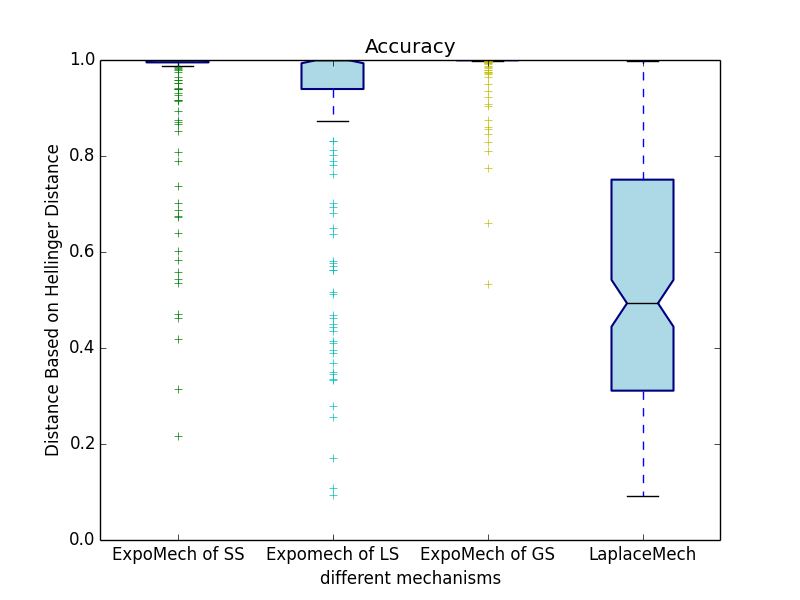
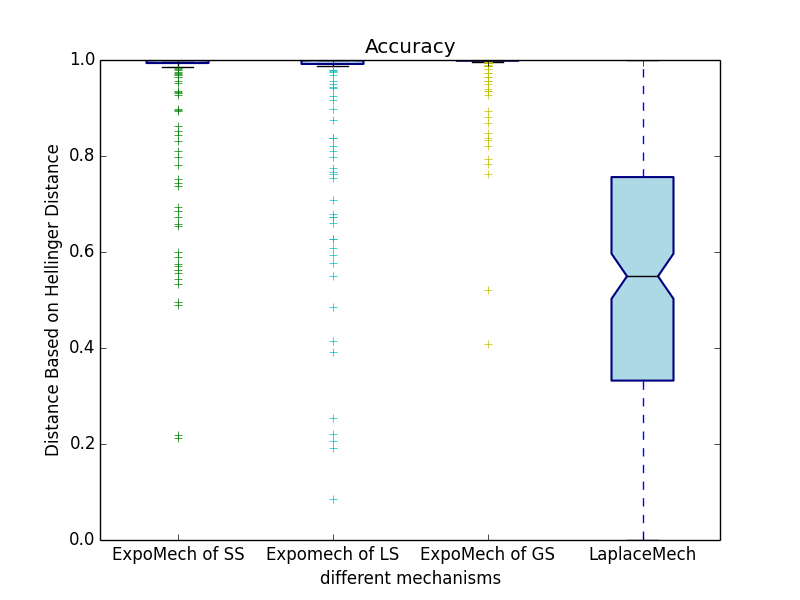
update experiments

diff --git a/dp_bayesian_inference_model_with_dirichlet_prior.py b/dp_bayesian_inference_model_with_dirichlet_prior.py
@@ -62,7 +62,6 @@ def optimized_multibeta_function(alphas):
 		# print nominators[n_pointer] ,d_pointer
 		r *= nominators[n_pointer] 
 		n_pointer -= 1
-
 	return r
 
 def Hellinger_Distance_Dir(Dir1, Dir2):
@@ -103,6 +102,7 @@ class Dir(object):
 				temp[j] += 1
 			temp[i] -= 1
 		return LS
+
 
 	def _score_sensitivity(self, r):
 		LS = 0.0
@@ -180,8 +180,8 @@ class BayesInferwithDirPrior(object):
 	def _set_SS(self):
 		# print "Calculating Smooth Sensitivity with Hellinger Distance....."
 		# start = time.clock()
-		gamma = 1
-		self._set_LS_Candidates()
+		#gamma = 1
+		#self._set_LS_Candidates()
 		# beta = self._epsilon / (2.0 * len(self._prior._alphas) * (gamma + 1))
 		# self._SS = max([self._LS_Candidates[r] * math.exp(- beta * Optimized_Hellinger_Distance_Dir(self._posterior, r)) for r in self._candidates])
 		# key1 = "(" + str(self._epsilon / 2.0) + "," + str(beta) + ") Admissible Niose and " + str(beta) + "-Smooth Sensitivity (" + str(self._SS) + ")|" + str(self._epsilon) + "-DP"
@@ -198,7 +198,8 @@ class BayesInferwithDirPrior(object):
 		print "Calculating Smooth Sensitivity with Hamming Distance....."
 		start = time.clock()
 		beta = math.log(1 - self._epsilon / (2.0 * math.log(self._delta / (2.0 * (self._sample_size)))))
-		self._SS_Hamming = max(self._LS, max([self._LS_Candidates[r] * math.exp(- beta * Hamming_Distance(self._posterior, r)) for r in self._candidates]))
+		#self._SS_Hamming = max(self._LS, max([self._LS_Candidates[r] * math.exp(- beta * Hamming_Distance(self._posterior, r)) for r in self._candidates]))
+		self._SS_Hamming = self._LS
 		key3 = "Exponential Mechanism with " + str(beta) + " - Bound Smooth Sensitivity (" + str(self._SS_Hamming) + ")|(" + str(self._epsilon) + "," + str(self._delta) + ")-DP"
 		print key3
 		key3 = "ExpoMech of SS"
@@ -513,15 +514,15 @@ def draw_error_l1(errors, model, filename):
 if __name__ == "__main__":
 	# Tests the functioning of the module
 
-	sample_size = 100
+	sample_size = 80
 	epsilon = 0.8
 	delta = 0.00005
-	prior = Dir([2,2,2,2,2])
+	prior = Dir([2,2,2,2])
 	Bayesian_Model = BayesInferwithDirPrior(prior, sample_size, epsilon, delta)
 
-	Bayesian_Model._experiments(200)
+	Bayesian_Model._experiments(10000)
 
-	draw_error(Bayesian_Model._accuracy,Bayesian_Model, "order-5-size-100-runs-200-epsilon-08-hellinger-delta000005-box.png")
+	draw_error(Bayesian_Model._accuracy,Bayesian_Model, "order-4-size-80-runs-10000-epsilon-08-hellinger-delta000005-box.png")
 
-	draw_error_l1(Bayesian_Model._accuracy_l1,Bayesian_Model, "order-5-size-100-runs-200-epsilon-08-l1norm-delta000005box.png")
+	draw_error_l1(Bayesian_Model._accuracy_l1,Bayesian_Model, "order-4-size-80-runs-10000-epsilon-08-l1norm-delta000005box.png")
 
